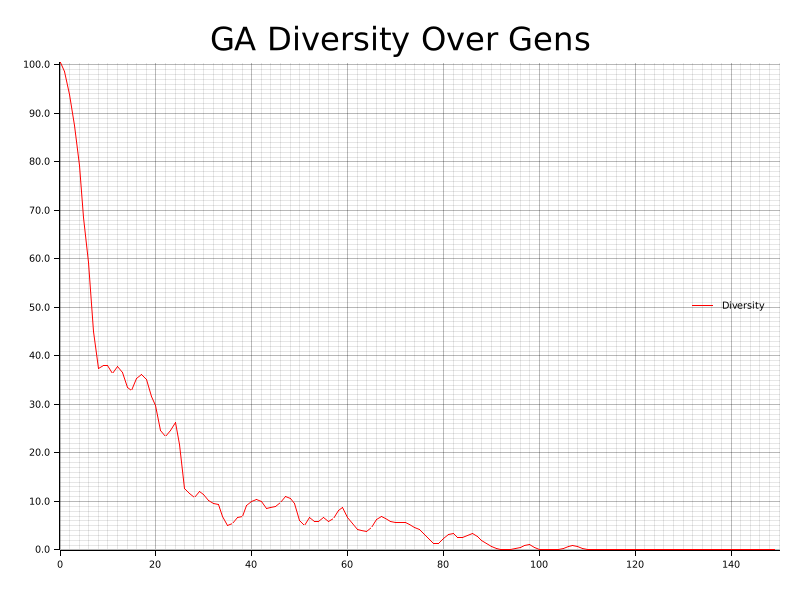
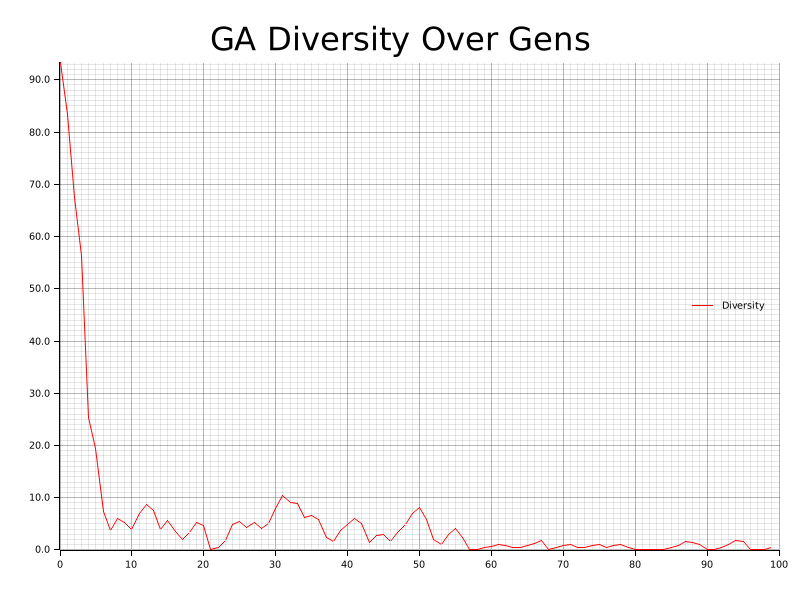
Attempted to fix by adding rnd crossover point

Changed region(s): [[0.0312, 0.09, 0.9688, 0.96], [0.9688, 0.93, 1.0, 0.96]]

diff --git a/Project01Optional/FeatureSelectionProblem/featureselect/src/population.rs b/Project01Optional/FeatureSelectionProblem/featureselect/src/population.rs
@@ -3,6 +3,8 @@ use crate::individual::Individual;
 use crate::params::{NUM_FEATURES, CROSSOVER_POINT, MUTATION_RATE};
 use std::collections::HashMap;
 use crate::Error;
+use rand::prelude::IteratorRandom;
+
 
 #[derive(Debug, Clone)]
 pub struct Population {
@@ -35,14 +37,16 @@ impl Population {
         }
         Ok(())
     }
-
-    /// Single-point crossover
+    /// Single-point crossover with a random crossover point
     fn crossover(parent1: &Individual, parent2: &Individual) -> (Individual, Individual) {
+        let mut rng = rand::thread_rng(); // Create a random number generator
+        let crossover_point = rng.gen_range(0..NUM_FEATURES); // Generate a random crossover point
+        
         let mut child1 = Individual::new();
         let mut child2 = Individual::new();
-
+    
         for i in 0..NUM_FEATURES {
-            if i < CROSSOVER_POINT {
+            if i < crossover_point {
                 child1.genes[i] = parent1.genes[i];
                 child2.genes[i] = parent2.genes[i];
             } else {
@@ -52,6 +56,7 @@ impl Population {
         }
         (child1, child2)
     }
+    
 
     /// Pick two parents via rank selection
     fn pick_best_parents_rank(&self) -> (usize, usize) {
@@ -89,6 +94,33 @@ impl Population {
         let mut parent2 = pick_one(&sorted_indices, &probabilities, &mut rng);
         while parent1 == parent2 {
             parent2 = pick_one(&sorted_indices, &probabilities, &mut rng);
+        }
+        (parent1, parent2)
+    }
+
+    fn tournament_selection(&self, tournament_size: usize) -> usize {
+        let mut rng = rand::thread_rng();
+        let candidates: Vec<usize> = (0..self.size)
+            .choose_multiple(&mut rng, tournament_size); // No unwrap needed
+
+        // Find the candidate with the highest fitness
+        *candidates
+            .iter()
+            .max_by(|&&a, &&b| {
+                self.individuals[a]
+                    .fitness
+                    .partial_cmp(&self.individuals[b].fitness)
+                    .unwrap()
+            })
+            .unwrap()
+    }
+
+    /// Pair selection using tournament
+    fn pick_parents_tournament(&self, tournament_size: usize) -> (usize, usize) {
+        let parent1 = self.tournament_selection(tournament_size);
+        let mut parent2 = self.tournament_selection(tournament_size);
+        while parent1 == parent2 {
+            parent2 = self.tournament_selection(tournament_size);
         }
         (parent1, parent2)
     }
@@ -212,7 +244,7 @@ impl Population {
         
         // 2) Sort descending by fitness and keep top 10% as elites
         self.individuals.sort_by(|a, b| b.fitness.partial_cmp(&a.fitness).unwrap());
-        let elite_count = self.size / 10;
+        let elite_count = self.size / 20;
         let elites = self.individuals[..elite_count].to_vec();
     
         // 3) We'll build new population with these elites plus
@@ -223,19 +255,17 @@ impl Population {
         // 4) We do pairwise selection & crowding for the other 90%.
         //    We'll produce (size - elite_count) individuals in pairs.
         while new_population.len() < self.size {
-            // a) pick two parents
-            let (p1_idx, p2_idx) = self.pick_best_parents_rank();
+            // Choose parents using tournament selection
+            let (p1_idx, p2_idx) = self.pick_parents_tournament(3); // Set tournament size to 3
             let parent1 = self.individuals[p1_idx].clone();
             let parent2 = self.individuals[p2_idx].clone();
-            
-            // b) produce two children by crossover
+        
+            // Crossover and mutation
             let (mut child1, mut child2) = Self::crossover(&parent1, &parent2);
-            
-            // c) mutate those children
             Self::mutate_individual(&mut child1);
             Self::mutate_individual(&mut child2);
-    
-            // d) run crowding replacement => returns 2 survivors
+        
+            // Crowding replacement
             let (winner1, winner2) = Self::crowding_replacement(
                 &parent1,
                 &parent2,
@@ -245,10 +275,10 @@ impl Population {
                 target_data,
                 nrows,
                 ncols,
-                cache
+                cache,
             )?;
-    
-            // e) push them into new population (limit new_population to self.size)
+        
+            // Add winners to the new population
             if new_population.len() < self.size {
                 new_population.push(winner1);
             }
@@ -272,5 +302,6 @@ impl Population {
         self.individuals
             .iter()
             .max_by(|a, b| a.fitness.partial_cmp(&b.fitness).unwrap())
+        
     }
 }

diff --git a/Project01Optional/FeatureSelectionProblem/featureselect/src/individual.rs b/Project01Optional/FeatureSelectionProblem/featureselect/src/individual.rs
@@ -1,8 +1,9 @@
 use crate::params::{NUM_FEATURES};
-use crate::utils::compute_rmse_subset_direct;
+use crate::utils::compute_rmse_subset;
 use crate::Error;
 use std::collections::HashMap;
 use rand::{Rng, seq::SliceRandom};
+use rand::rngs::StdRng;
 
 /**
  * Individual struct for each of the knapsack problem population members
@@ -91,40 +92,21 @@ impl Individual {
             self.fitness = -9999.0; // big negative or handle differently
             return Ok(9999.0);
         }
-
-        // 4) Randomly pick ~10% of rows
-        let sample_size = ((nrows as f64) * 1.0).ceil() as usize;
-        let mut row_indices: Vec<usize> = (0..nrows).collect();
-        let mut rng = rand::thread_rng();
-        row_indices.shuffle(&mut rng);
-        row_indices.truncate(sample_size);
-
-        // 5) Build submatrix from (row_indices × active_cols)
-        //    Also build a partial target vector (same rows)
-        let mut partial_features = Vec::with_capacity(sample_size * active_cols.len());
-        let mut partial_targets = Vec::with_capacity(sample_size);
-
-        for &row in &row_indices {
-            // gather the columns
-            for &col in &active_cols {
-                // Flattened index in the original big feature_data
-                let idx = row * ncols + col;
-                partial_features.push(feature_data[idx]);
-            }
-            partial_targets.push(target_data[row]);
-        }
-
-        // 6) Fit a linear regression on this submatrix
-        let rmse = compute_rmse_subset_direct(
-            &partial_features,
-            &partial_targets,
-            sample_size,
-            active_cols.len(),
+        // 4) Fit a linear regression on this submatrix
+        let rmse = compute_rmse_subset(
+            &feature_data,
+            &target_data,
+            nrows,
+            ncols,
+            &active_cols
         )?;
 
-        // 7) Save negative rmse => so we maximize fitness
         self.fitness = -rmse;
-        // 8) Cache it if you want
+
+
+        // 5) Save negative rmse => so we maximize fitness
+
+        // 6) Cache it if you want
         cache.insert(subset_key, self.fitness);
 
         // Return the actual RMSE

diff --git a/Project01Optional/FeatureSelectionProblem/featureselect/src/main.rs b/Project01Optional/FeatureSelectionProblem/featureselect/src/main.rs
@@ -61,7 +61,7 @@ fn main() -> Result<(), Box<dyn Error>> {
     //---------------------------------------------
     // 4) GA Loop: run up to 30 generations
     //---------------------------------------------
-    for generation in 0..150 {
+    for generation in 0..100 {
         // Evaluate population -> each individual's fitness
         // (calls each individual's `calculate_fitness`, 
         //  which uses negative RMSE as the "fitness")
@@ -76,7 +76,7 @@ fn main() -> Result<(), Box<dyn Error>> {
             let current_rmse = -current_best_fitness; 
 
 
-            if generation % 10 == 0 {
+            if generation % 2 == 0 {
                 println!(
                     "Generation {}: Best RSME = {:.4}, Diversity = {:.2}, Size = {}",
                     generation,

diff --git a/Project01Optional/FeatureSelectionProblem/featureselect/src/params.rs b/Project01Optional/FeatureSelectionProblem/featureselect/src/params.rs
@@ -10,4 +10,4 @@ pub const CROSSOVER_POINT: usize = (NUM_FEATURES + 1) / 2;
 pub const MUTATION_RATE: f64 = 1.0 / NUM_FEATURES as f64;
 
 /// The population size for the generations in the SGA
-pub const POPULATION_SIZE: usize = 100;
+pub const POPULATION_SIZE: usize = 12;
